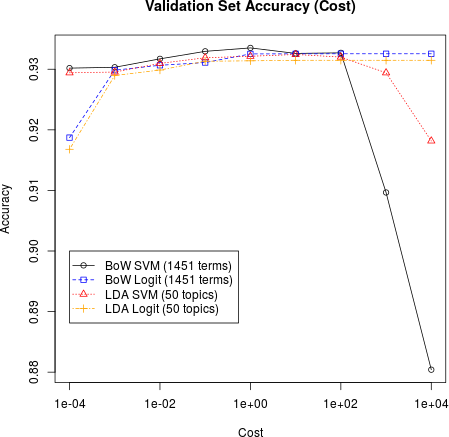
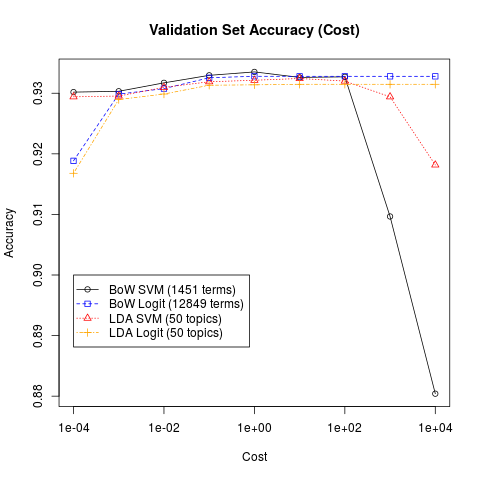
Update cost graph

diff --git a/assignment2report.tex b/assignment2report.tex
@@ -116,6 +116,19 @@ The easiest baseline to beat would be the trivial predictor that predcts that ev
 \section{Model}
 \begin{figure}
   \centering
+  \includegraphics[scale=0.5]{valid_numTerms.png}
+  \caption{Sparsity Tuning}
+  \label{fig:sparse}
+\end{figure}
+
+When the bag-of-words representation for text was initially created, it contained 229,334 terms. We hypothesize that many of these terms might be completely useless or even detrimental to the model by inducing overfitting. We therefore attempted some dimension reduction via just dropping infrequent terms and by applying LDA (discussed later). Infrequent terms were removed based on their sparsity, using maximum allowed sparseness values of 0.99, 0.995, 0.999, 0.9999, 0.99999, and 1 (all terms included). These correspond to 48, 141, 1451, 12849, 66771, and 229334 terms, respectively. Figure~\ref{fig:sparse} shows the results from tuning the number of terms to include in the basic bag-of-words representation of tweets. 
+
+Indeed, there is a small reduction in error on the validation set when we reduce the number of terms. The accuracy for SVM is maximized when we include 1,451 terms instead of the full 229,334 terms. The accuracy for logistic regression is maximized when we have 12,849 terms.
+
+
+
+\begin{figure}
+  \centering
   \includegraphics[scale=0.5]{valid_cost.png}
   \caption{Cost Tuning}
   \label{fig:cost}
